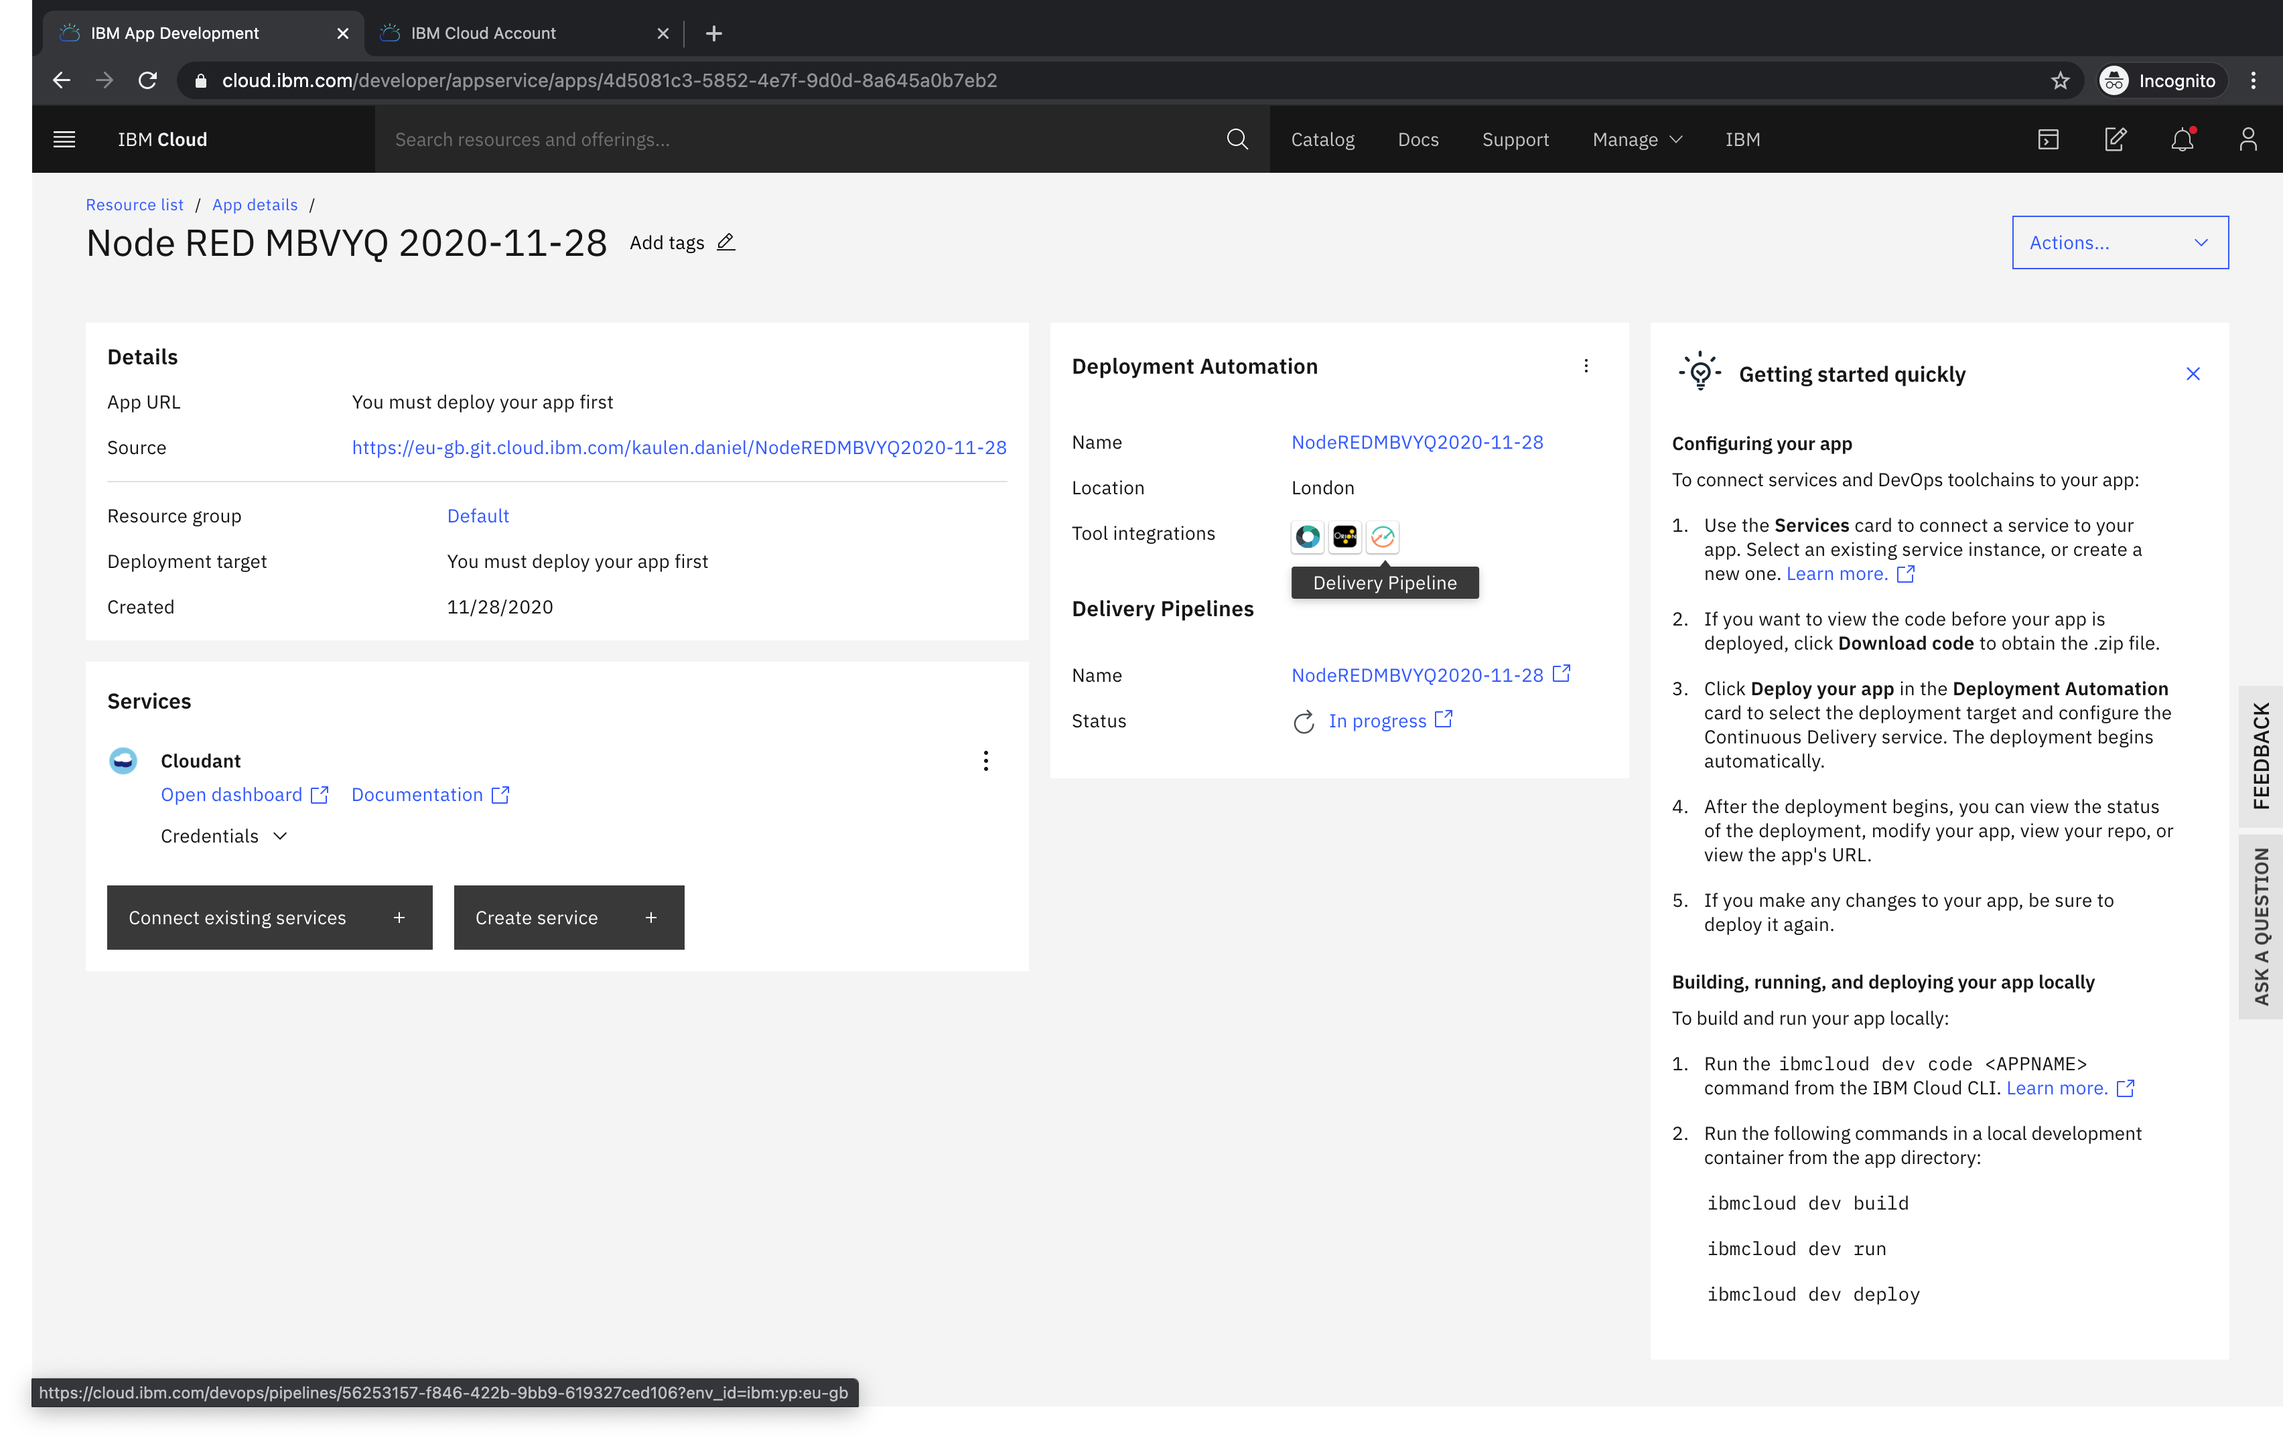
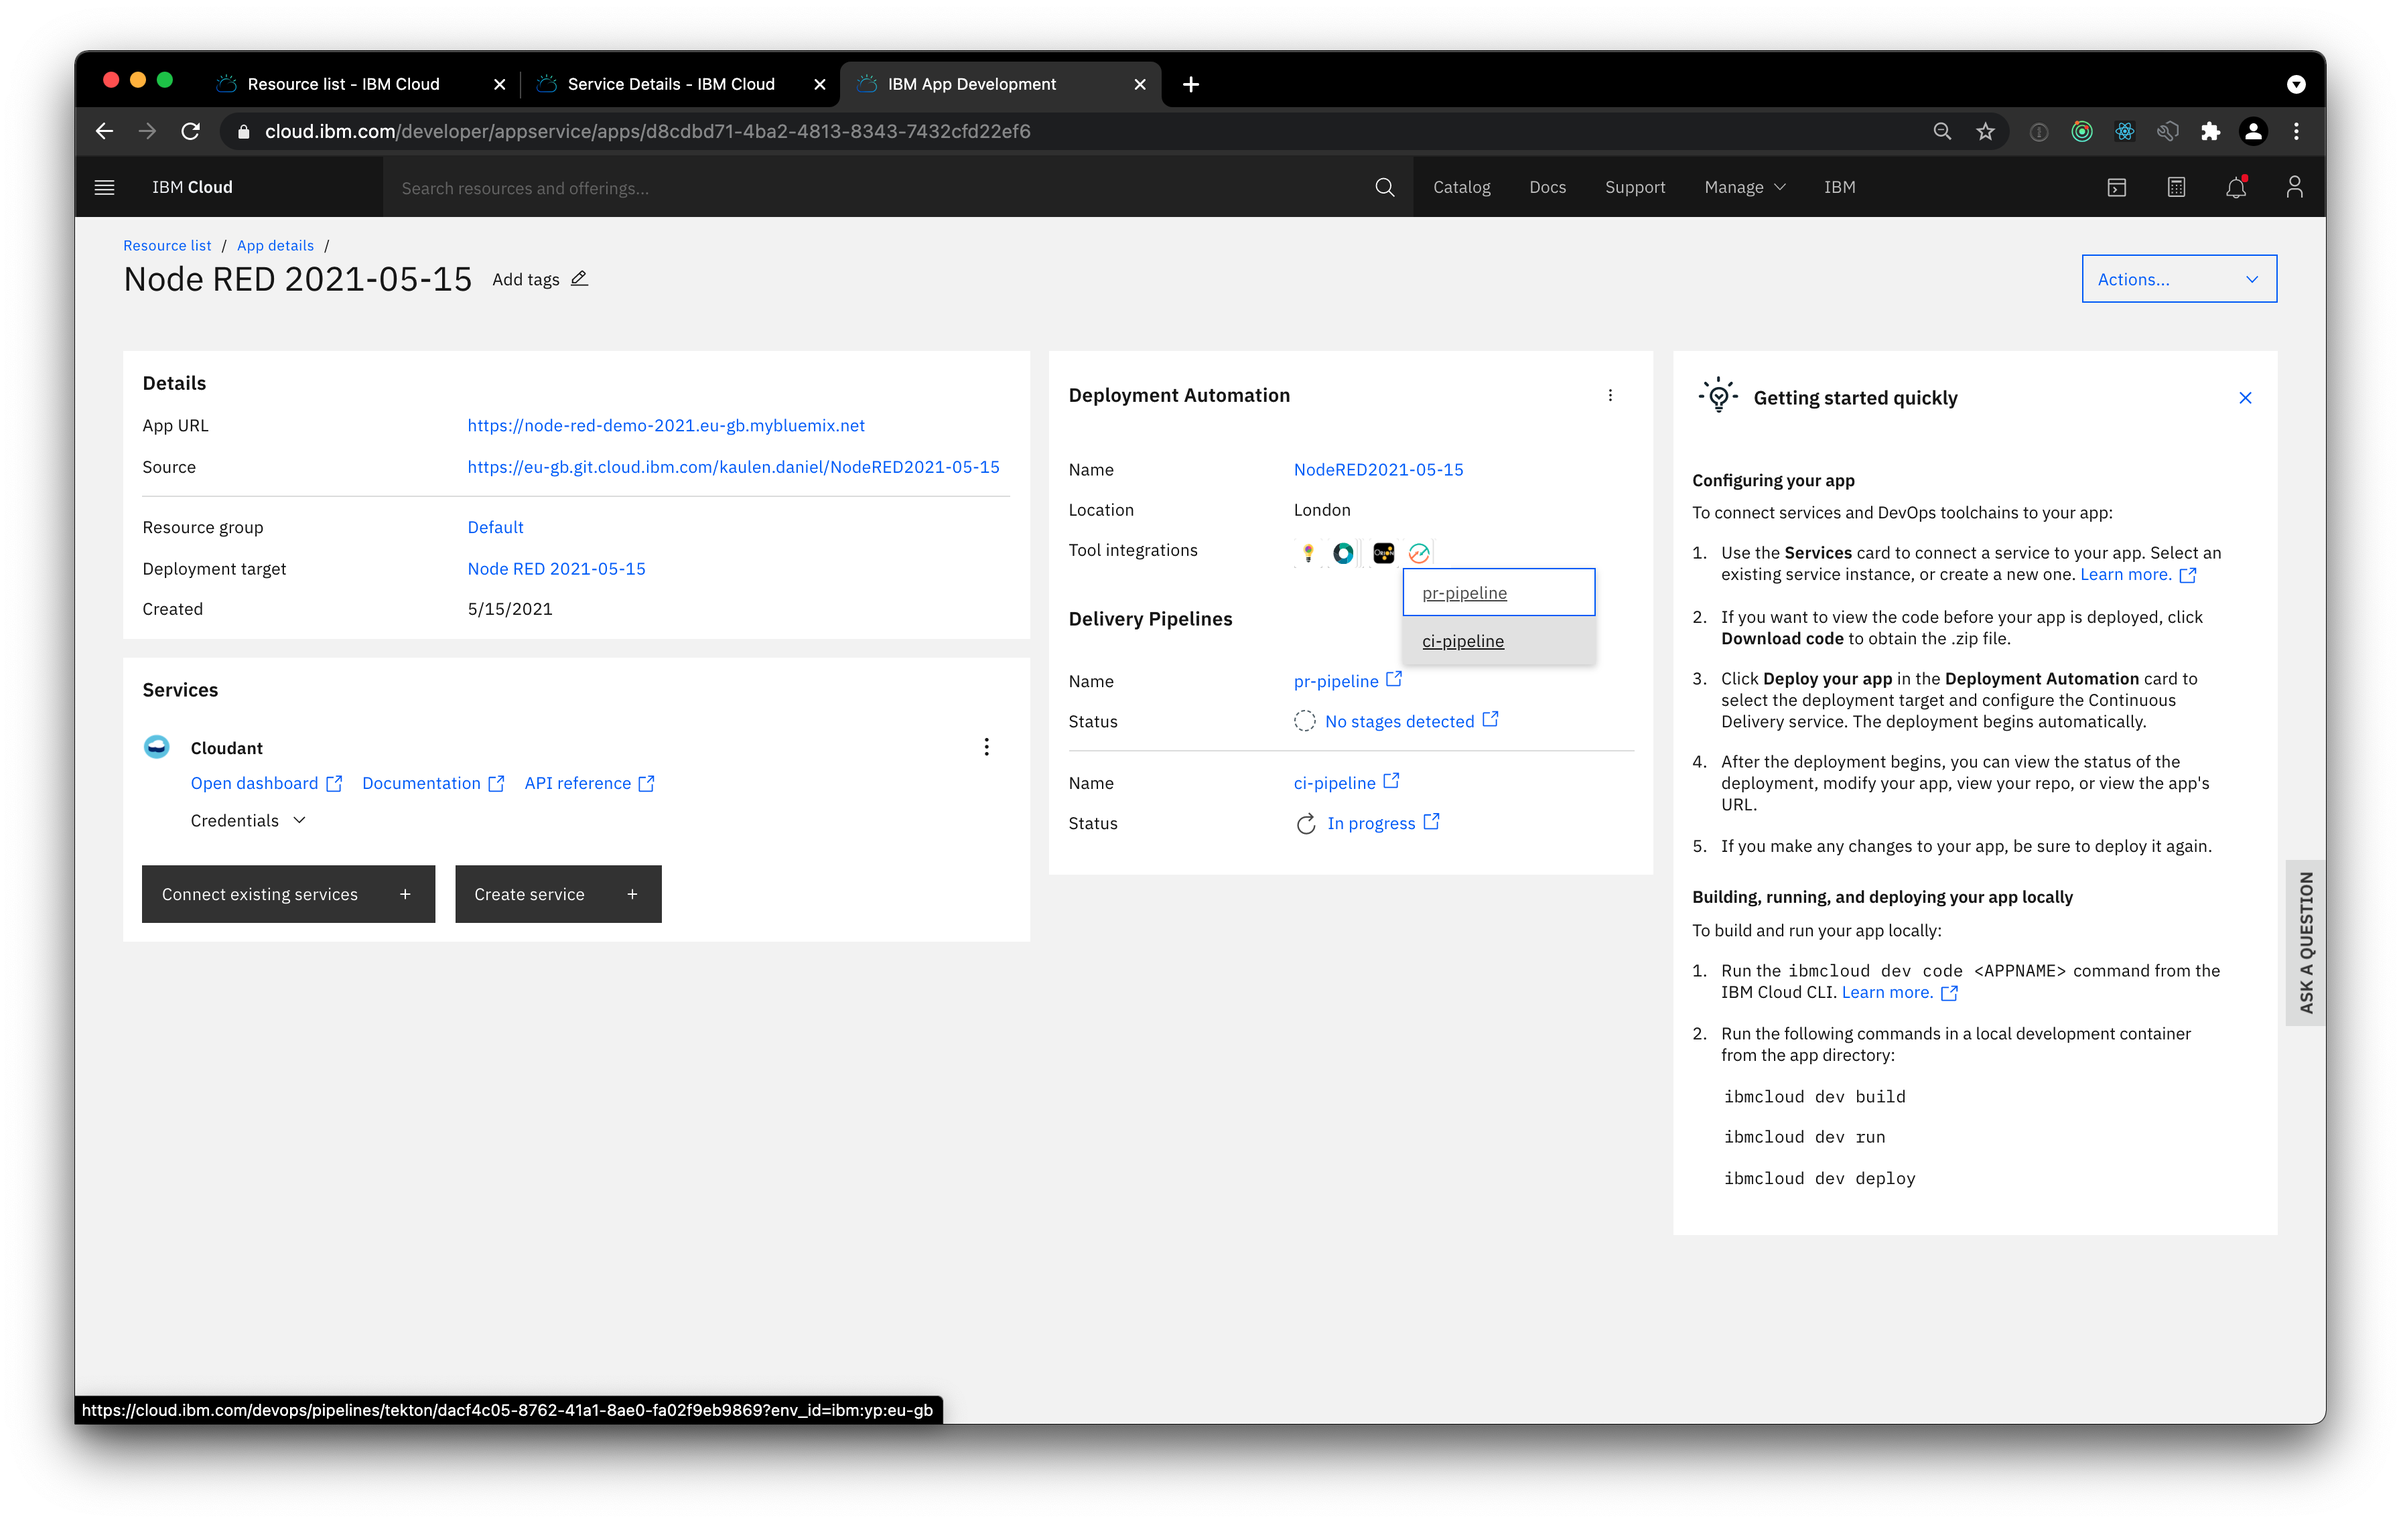
update screenshots

diff --git a/guidelines/node-red-cloud/index.md b/guidelines/node-red-cloud/index.md
@@ -23,12 +23,12 @@
 ![](./screenshots/11.png)
 - Switch to the _Delivery Pipeline_
 ![](./screenshots/12.png)
-- Wait until both stages (Build & Deploy) succeeded
+- Wait until the pipeline run succeeded
 ![](./screenshots/14a.png)
 ![](./screenshots/14b.png)
 - Your app is now available at the host name you specified in a previous step
 ![](./screenshots/15.png)
-- Access your Node-RED instance (e.g. https://node-red-hhz-demo.eu-gb.cf.appdomain.cloud/)
+- Access your Node-RED instance (e.g. https://node-red-demo-2021.eu-gb.mybluemix.net)
 ![](./screenshots/16.png)
 - Configure your Node-RED instance
 ![](./screenshots/17.png)
